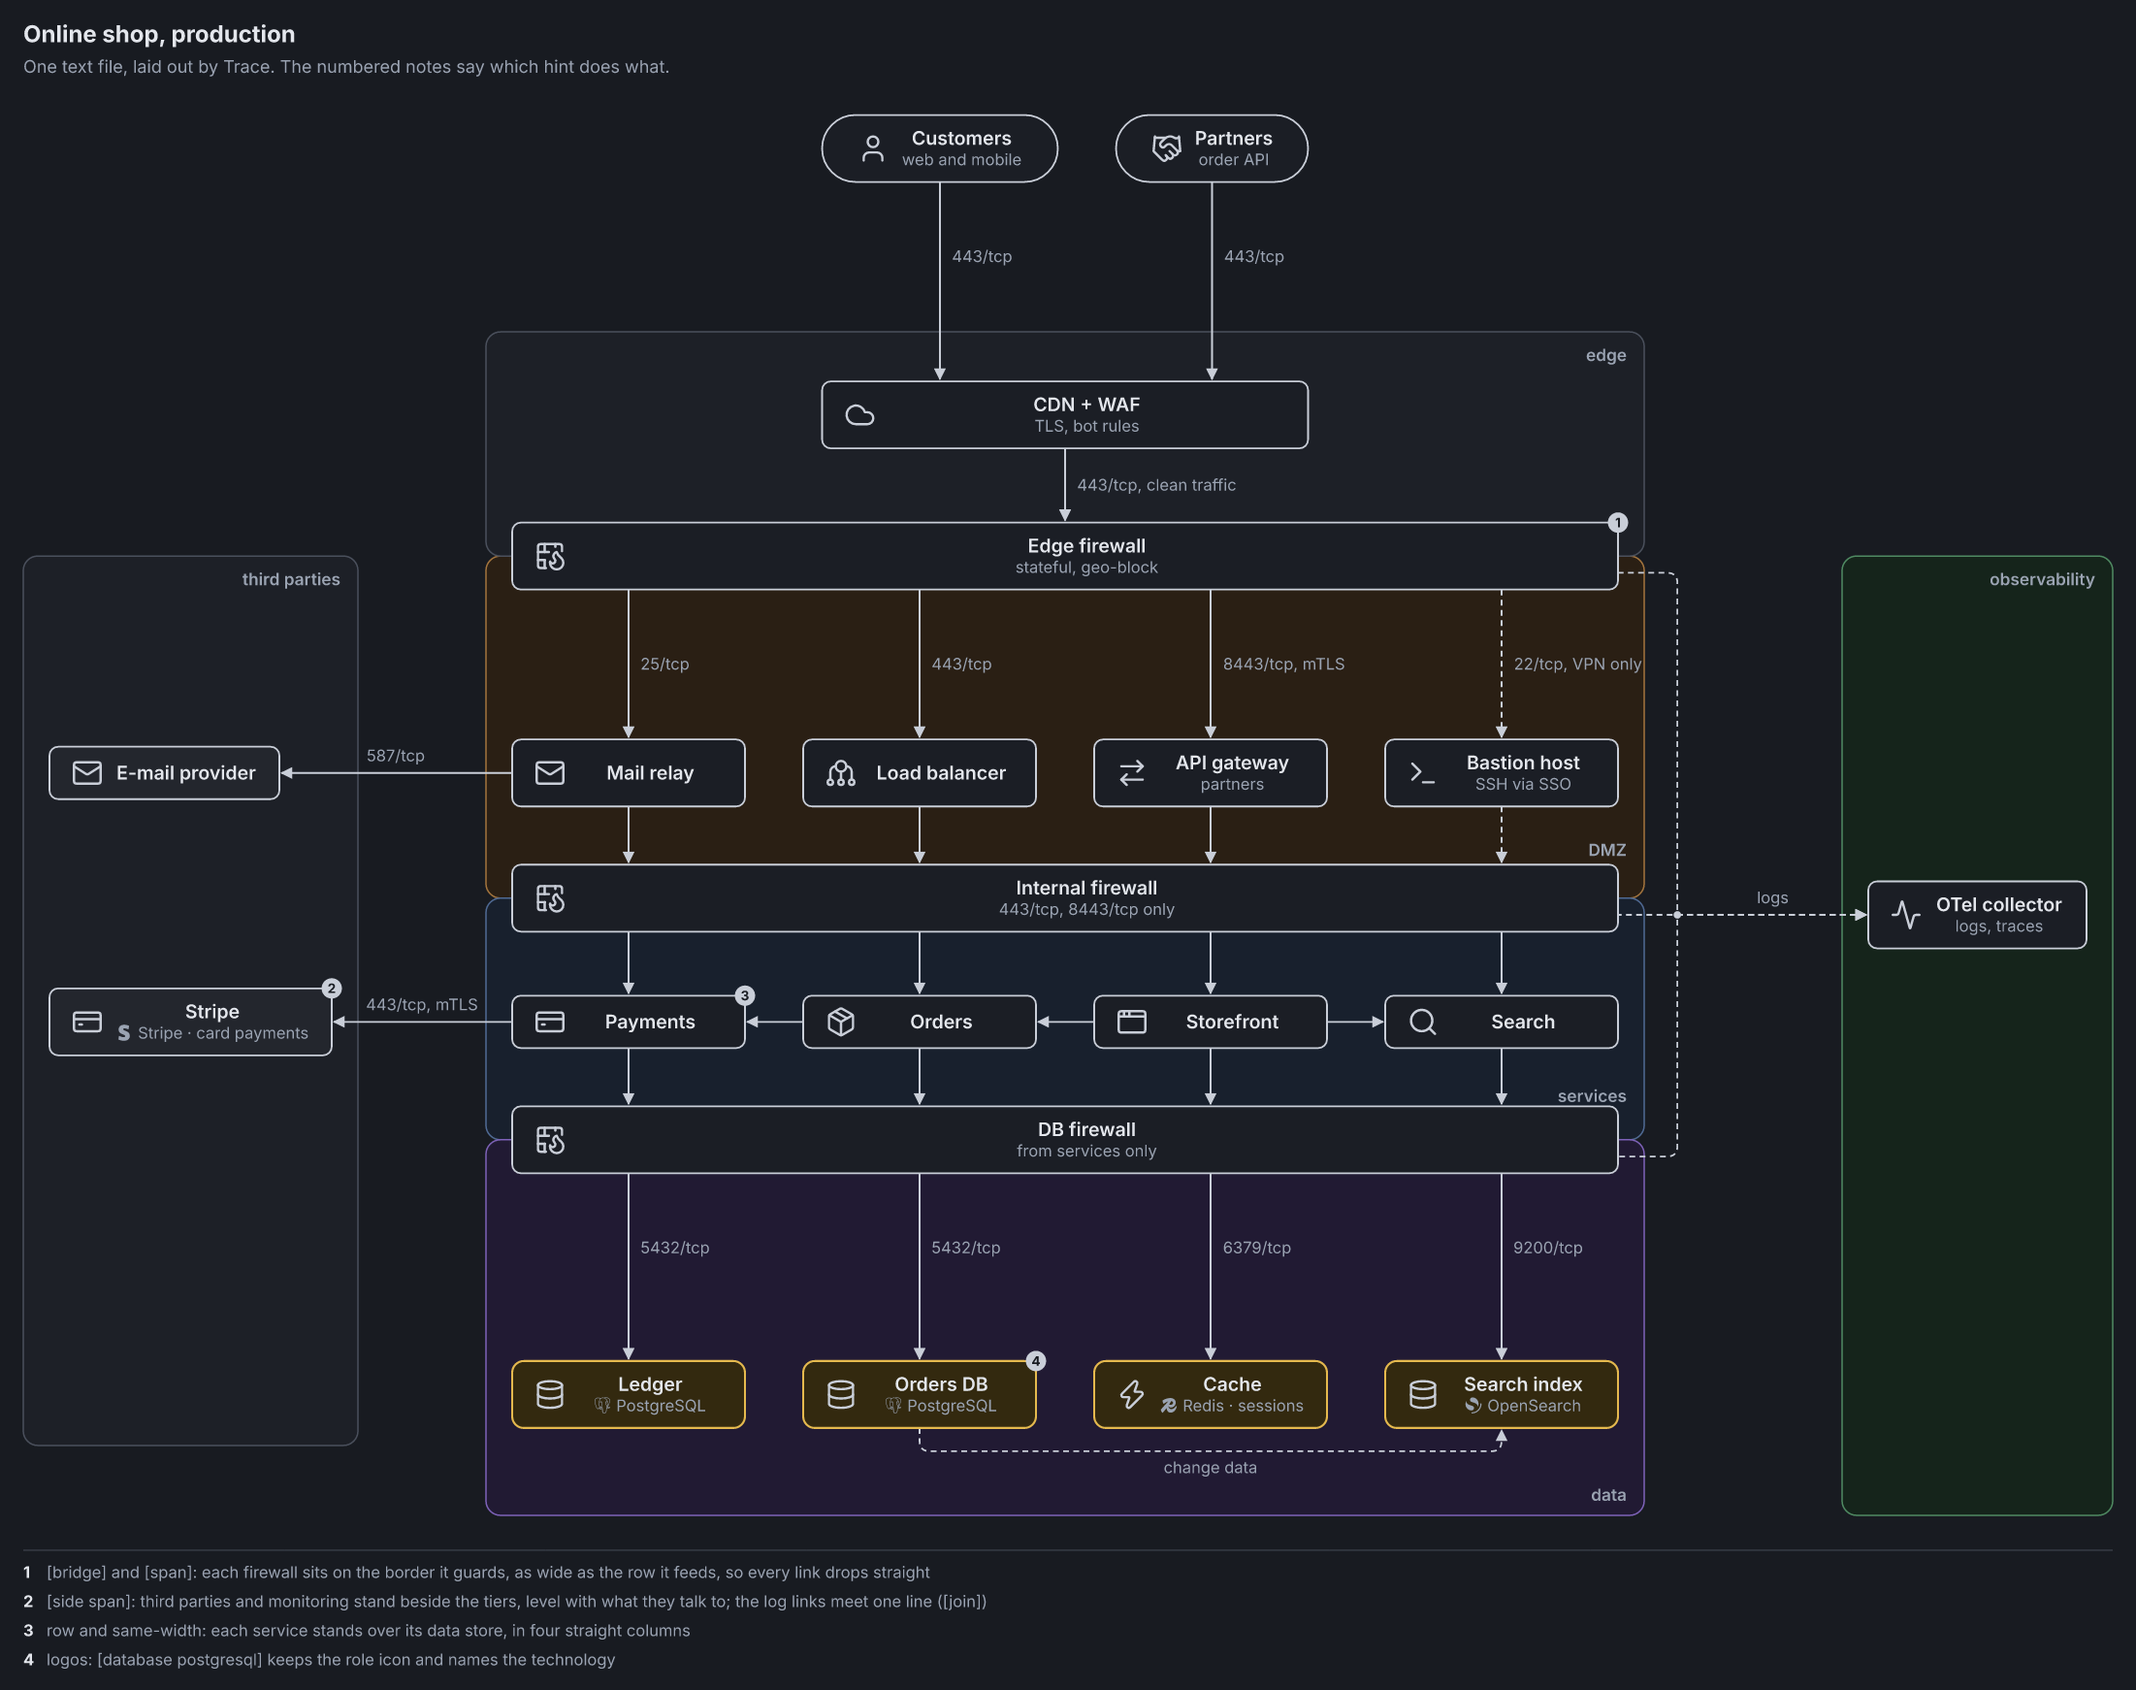
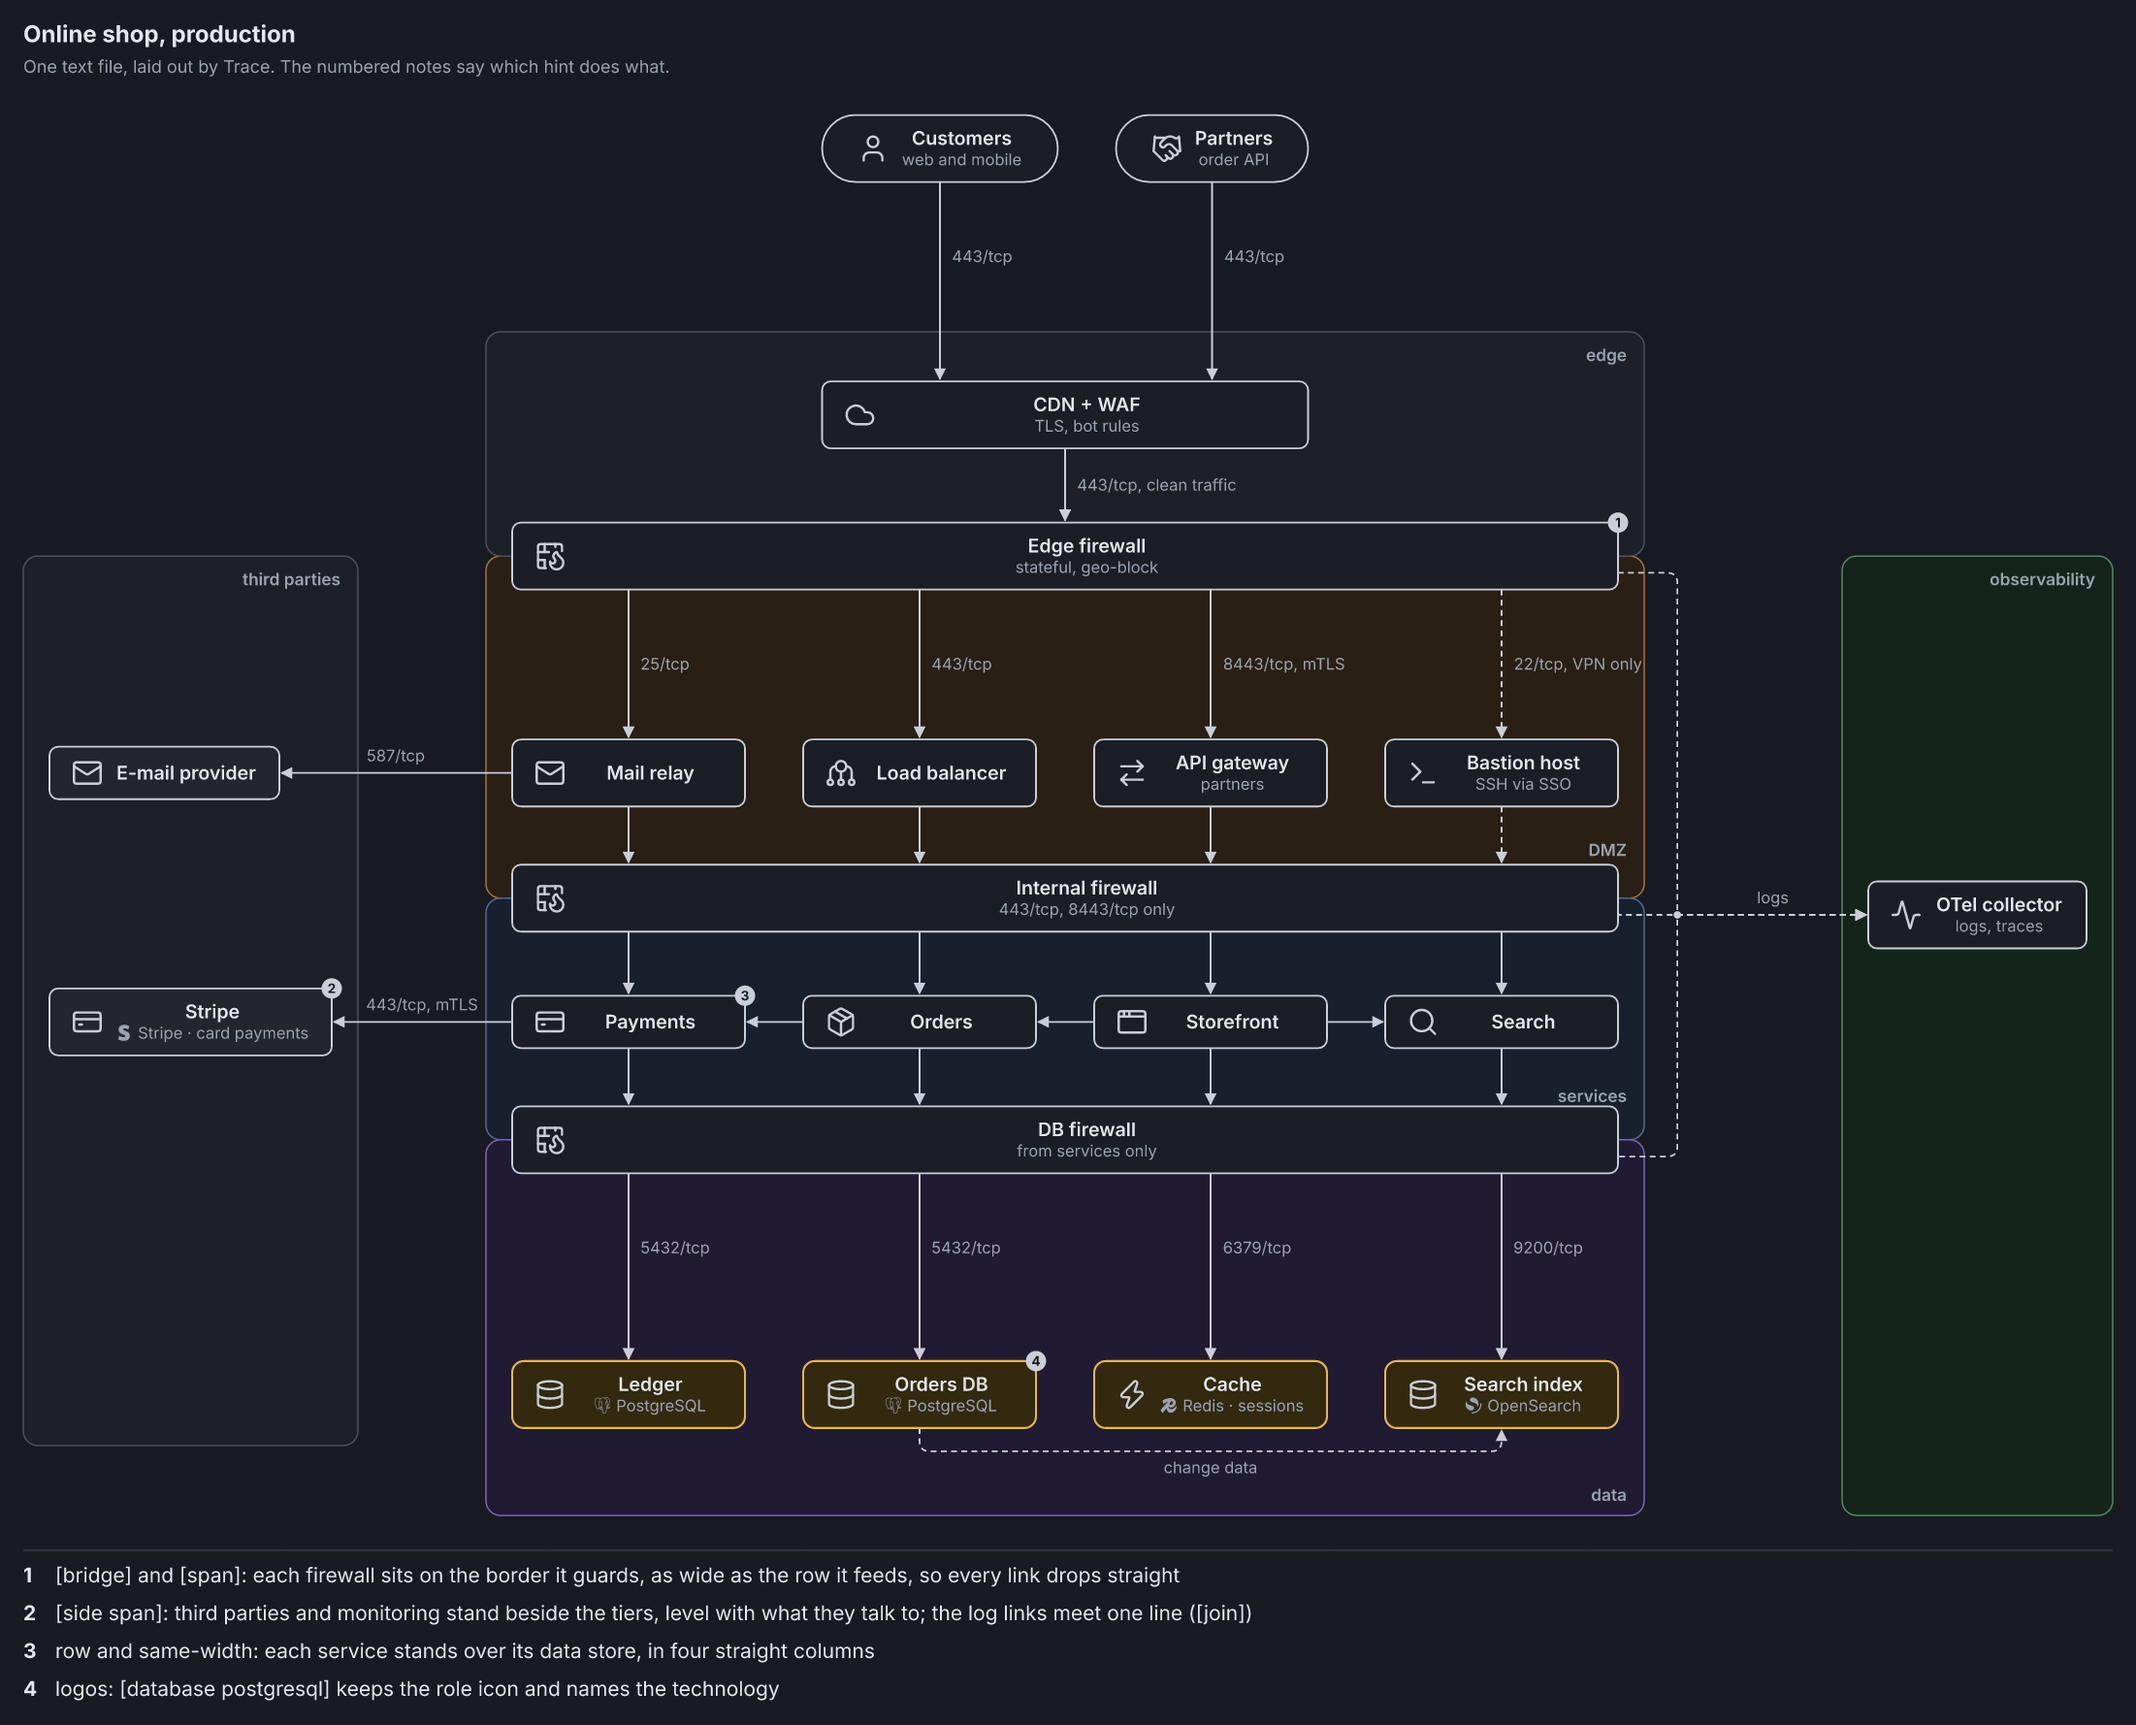
Notes readable at page scale: the list under the drawing at a node name's size (14px, ink), margin notes at 12px. Each note is one group: pointing at it outlines its subject and grows its pin or number (standalone SVGs and pages; still under reduced motion)

diff --git a/src/trace.js b/src/trace.js
@@ -671,6 +671,9 @@ function desugarSides(model) {
 
 const FONT_NAME = '600 13px Inter, system-ui, -apple-system, "Segoe UI", sans-serif';
 const FONT_NOTE = '400 11px Inter, system-ui, -apple-system, "Segoe UI", sans-serif';
+// notes are read at the size of a drawing scaled to a page: the list under the drawing at a node name's size
+const FONT_NOTE_LIST = '400 14px Inter, system-ui, -apple-system, "Segoe UI", sans-serif';
+const FONT_NOTE_MARGIN = '400 12px Inter, system-ui, -apple-system, "Segoe UI", sans-serif';
 const FONT_TITLE = '600 11.5px Inter, system-ui, -apple-system, "Segoe UI", sans-serif';
 const FONT_HEAD = '700 16px Inter, system-ui, -apple-system, "Segoe UI", sans-serif';
 const FONT_CAP = '400 12px Inter, system-ui, -apple-system, "Segoe UI", sans-serif';
@@ -690,9 +693,9 @@ function layoutNotes(model, rm, measure) {
     if (!a.target) return null;
     if (a.target.id) {
       const n = rm.nodes.find(q => q.id === a.target.id && q.x !== undefined);
-      if (n) return { x: n.x + n.w, y: n.y + n.h / 2, nx: n.x + n.w, ny: n.y };
+      if (n) return { x: n.x + n.w, y: n.y + n.h / 2, nx: n.x + n.w, ny: n.y, box: { x: n.x, y: n.y, w: n.w, h: n.h, r: 8 } };
       const f = rm.frames.find(b => b.f.id === a.target.id);
-      return f ? { x: f.x + f.w, y: f.y + 16, nx: f.x + f.w, ny: f.y } : null;
+      return f ? { x: f.x + f.w, y: f.y + 16, nx: f.x + f.w, ny: f.y, box: { x: f.x, y: f.y, w: f.w, h: f.h, r: 11 } } : null;
     }
     const [p, q] = a.target.link;
     const r = rm.edges.find(r => r.pts && r.pts.length > 1 && ((r.e.a === p && r.e.b === q) || (r.e.a === q && r.e.b === p)));
@@ -704,10 +707,10 @@ function layoutNotes(model, rm, measure) {
     }
     return { x: best.x, y: best.y, nx: best.x, ny: best.y };
   };
-  const items = list.map(a => ({ a, anchor: anchorOf(a), lines: wrap(a.text, FONT_NOTE, CW - 8, measure) }));
-  const fits = items.every(it => it.lines.length <= 4) && items.reduce((t, it) => t + it.lines.length * 14 + 12, 0) <= rm.height + 40;
+  const items = list.map(a => ({ a, anchor: anchorOf(a), lines: wrap(a.text, FONT_NOTE_MARGIN, CW - 8, measure) }));
+  const fits = items.every(it => it.lines.length <= 4) && items.reduce((t, it) => t + it.lines.length * 16 + 12, 0) <= rm.height + 40;
   const style = model.noteStyle === 'auto' ? (fits ? 'margin' : 'numbered') : model.noteStyle;
-  if (style === 'numbered') for (const it of items) it.lines = wrap(it.a.text, FONT_NOTE, Math.max(320, rm.width - 64), measure);
+  if (style === 'numbered') for (const it of items) it.lines = wrap(it.a.text, FONT_NOTE_LIST, Math.max(320, rm.width - 72), measure);
   // numbered in reading order: top to bottom, then left to right; notes about the whole diagram first, unnumbered
   let k = 0;
   const order = [...items].sort((u, v) => (u.anchor ? 1 : 0) - (v.anchor ? 1 : 0) || (u.anchor && v.anchor ? u.anchor.ny - v.anchor.ny || u.anchor.nx - v.anchor.nx : 0));
@@ -4652,8 +4655,15 @@ function diagramCSS(p, scope) {
     `${s}.box.ok{stroke:${p.ok};stroke-width:1.6}${s}.box.bad{stroke:${p.bad};stroke-width:1.6}` +
     `${s}.box.muted{stroke:${p.soft}}${s}.dashed{stroke-dasharray:4 3}` +
     `${s}.dot{fill:${p.line}}` +
-    `${s}.ntext{fill:${p.muted};font-size:11px;font-style:italic}${s}.nline{fill:none;stroke:${p.soft};stroke-width:0.8}${s}.npin{fill:${p.soft}}` +
-    `${s}.nnum{fill:${p.line}}${s}.nnumt{fill:${p.panel};font-size:9px;font-weight:700}${s}.nnumlist{fill:${p.fg};font-size:11px;font-weight:700}${s}.ntextlist{fill:${p.muted};font-size:11px}${s}.nrule{stroke:${p.soft};stroke-width:0.6;opacity:.6}` +
+    `${s}.ntext{fill:${p.muted};font-size:12px;font-style:italic}${s}.nline{fill:none;stroke:${p.soft};stroke-width:0.8}${s}.npin{fill:${p.soft}}` +
+    `${s}.nnum{fill:${p.line}}${s}.nnumt{fill:${p.panel};font-size:9px;font-weight:700}${s}.nnumlist{fill:${p.fg};font-size:14px;font-weight:700}${s}.ntextlist{fill:${p.fg};font-size:14px}${s}.nrule{stroke:${p.soft};stroke-width:0.6;opacity:.6}` +
+    `${s}.nhalo{fill:none;stroke:${p.fg};stroke-width:1.5;stroke-dasharray:3 3;opacity:0;transition:opacity .2s}` +
+    `${s}.nlinehi{fill:none;stroke:${p.fg};stroke-width:1.2;opacity:0;transition:opacity .2s}` +
+    `${s}.npin,${s}.nnumg,${s}.ntext,${s}.ntextlist,${s}.nnumlist{transform-box:fill-box;transition:transform .2s,fill .2s}${s}.npin,${s}.nnumg{transform-origin:center}${s}.ntext,${s}.ntextlist,${s}.nnumlist{transform-origin:left center}` +
+    `${s}.nnote:hover .nhalo,${s}.nnote:focus .nhalo{opacity:.6}${s}.nnote:hover .nlinehi,${s}.nnote:focus .nlinehi{opacity:.8}` +
+    `${s}.nnote:hover .npin,${s}.nnote:focus .npin{transform:scale(2)}${s}.nnote:hover .nnumg,${s}.nnote:focus .nnumg{transform:scale(1.35)}` +
+    `${s}.nnote:hover .ntext{fill:${p.fg}}` +
+    `@media (prefers-reduced-motion:reduce){${s}.nnote *{transition:none}}` +
     `${s}.card{fill:none;stroke:${p.line};stroke-width:1.2}${s}.cardo{fill:${p.panel};stroke:${p.line};stroke-width:1.2}` +
     `${s}.thead{fill:${p.engine}}${s}.tsep{fill:none;stroke:${p.soft};stroke-width:1}${s}.tframe{fill:none;stroke:${p.line};stroke-width:1.2}` +
     `${s}.tframe.ok{stroke:${p.ok};stroke-width:1.6}${s}.tframe.bad{stroke:${p.bad};stroke-width:1.6}${s}.tframe.muted{stroke:${p.soft}}` +
@@ -5116,6 +5126,11 @@ function render(rm, { standalone = false, idPrefix = 'tr', theme = null } = {}) 
   // they pass behind the boxes
   const ann = rm.annot;
   const noteTop = [];
+  // everything that belongs to one note goes in one group (drawn last): hovering or focusing any part of it outlines
+  // its subject, enlarges its pin or number and brings its text forward (standalone SVGs and pages)
+  const parts = new Map();
+  const part = it => { if (!parts.has(it)) parts.set(it, []); return parts.get(it); };
+  const halo = it => it.anchor && it.anchor.box ? `<rect class="nhalo" x="${r1(it.anchor.box.x - 4)}" y="${r1(it.anchor.box.y - 4)}" width="${r1(it.anchor.box.w + 8)}" height="${r1(it.anchor.box.h + 8)}" rx="${it.anchor.box.r}"/>` : '';
   if (ann && ann.style === 'margin') {
     // each note beside its subject, in the first free room to its right at its height (the drawing's right edge
     // at worst); notes keep 12px apart from each other
@@ -5131,7 +5146,7 @@ function render(rm, { standalone = false, idPrefix = 'tr', theme = null } = {}) 
     };
     const placed = [];
     for (const it of ann.items) {
-      const h = it.lines.length * 14, a = it.anchor;
+      const h = it.lines.length * 16, a = it.anchor;
       let top = a ? a.y - 9 : 8;
       const from = a ? a.x : Math.ceil(rm.width);
       let x0;
@@ -5142,7 +5157,7 @@ function render(rm, { standalone = false, idPrefix = 'tr', theme = null } = {}) 
         top = clash.bottom + 12;
       }
       placed.push({ x0, top, bottom: top + h });
-      it.lines.forEach((l, i) => noteTop.push(`<text class="ntext" x="${x0}" y="${r1(top + 11 + i * 14)}">${esc(l)}</text>`));
+      part(it).push(halo(it), ...it.lines.map((l, i) => `<text class="ntext" x="${x0}" y="${r1(top + 12 + i * 16)}">${esc(l)}</text>`));
       if (a) {
         const ty = top + 7, xm = x0 - 10;
         // straight across to the note, unless that passes behind another box: then down below the drawing first
@@ -5152,13 +5167,13 @@ function render(rm, { standalone = false, idPrefix = 'tr', theme = null } = {}) 
           ? `M${r1(a.x)} ${r1(a.y + 2)} V${r1(rm.height - 6)} H${r1(xm)} V${r1(ty)} H${r1(x0 - 3)}`
           : `M${r1(a.x + 2)} ${r1(a.y)} H${r1(xm)}${Math.abs(ty - a.y) > 0.5 ? ` V${r1(ty)}` : ''} H${r1(x0 - 3)}`;
         body.push(`<path class="nline" d="${d}"/>`);
-        noteTop.push(`<circle class="npin" cx="${r1(a.x)}" cy="${r1(a.y)}" r="2.2"/>`);
+        part(it).push(`<path class="nlinehi" d="${d}"/>`, `<circle class="npin" cx="${r1(a.x)}" cy="${r1(a.y)}" r="2.2"/>`);
       }
-      W = Math.max(W, x0 + Math.max(...it.lines.map(l => l.length * 6)) + 16);
+      W = Math.max(W, x0 + Math.max(...it.lines.map(l => l.length * 6.6)) + 16);
       H = Math.max(H, Math.ceil(top + h) + 16);
     }
   } else if (ann) {
-    for (const it of ann.items) if (it.anchor) noteTop.push(`<circle class="nnum" cx="${r1(it.anchor.nx)}" cy="${r1(it.anchor.ny)}" r="7"/><text class="nnumt" x="${r1(it.anchor.nx)}" y="${r1(it.anchor.ny + 3.2)}" text-anchor="middle">${it.n}</text>`);
+    for (const it of ann.items) if (it.anchor) part(it).push(halo(it), `<g class="nnumg"><circle class="nnum" cx="${r1(it.anchor.nx)}" cy="${r1(it.anchor.ny)}" r="7"/><text class="nnumt" x="${r1(it.anchor.nx)}" y="${r1(it.anchor.ny + 3.2)}" text-anchor="middle">${it.n}</text></g>`);
   }
   const labels = [];
   // where two links cross, the horizontal one hops over the vertical one with a small arc, so a crossing never
@@ -5263,12 +5278,13 @@ function render(rm, { standalone = false, idPrefix = 'tr', theme = null } = {}) 
     body.push(`<path class="nrule" d="M16 ${r1(y)} H${r1(Math.max(W, 340) - 16)}"/>`);
     y += 8;
     for (const it of ann.items) {
-      if (it.n) body.push(`<text class="nnumlist" x="16" y="${r1(y + 11)}">${it.n}</text>`);
-      it.lines.forEach((l, i) => body.push(`<text class="ntextlist" x="${it.n ? 32 : 16}" y="${r1(y + 11 + i * 14)}">${esc(l)}</text>`));
-      y += it.lines.length * 14 + 6;
+      if (it.n) part(it).push(`<text class="nnumlist" x="16" y="${r1(y + 14)}">${it.n}</text>`);
+      part(it).push(...it.lines.map((l, i) => `<text class="ntextlist" x="${it.n ? 38 : 16}" y="${r1(y + 14 + i * 20)}">${esc(l)}</text>`));
+      y += it.lines.length * 20 + 6;
     }
     H = y + 8;
   }
+  for (const [, ps] of parts) body.push(`<g class="nnote">${ps.join('')}</g>`);
   const defs = ['a:head', 'ok:head-ok', 'bad:head-bad', 'mu:head-muted'].map(s => {
     const [id, c] = s.split(':');
     // a head for the end and one for the start, each with plain orient="auto": not every renderer knows

diff --git a/test/examples.test.js b/test/examples.test.js
@@ -1288,6 +1288,7 @@ test('notes: in the margin when short, numbered when asked, never moving the dra
   assert.strictEqual(pos(margin), pos(plain), 'the layout is the same with notes');
   assert.strictEqual(margin.rm.annot.style, 'margin');
   assert.ok(margin.svg.includes('>read replica planned<') && margin.svg.includes('class="nline"'));
+  assert.ok((margin.svg.match(/class="nnote"/g) || []).length === 4, 'each note is one group, for the hover effect');
   const numbered = await compile(base + notes + '\nnotes numbered', measure, ELK, {});
   assert.strictEqual(numbered.rm.annot.style, 'numbered');
   assert.strictEqual(numbered.rm.annot.items.filter(it => it.n).length, 3, 'three numbered, the whole-diagram note unnumbered');
